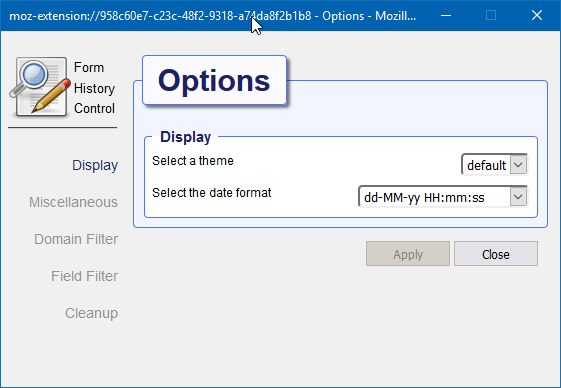
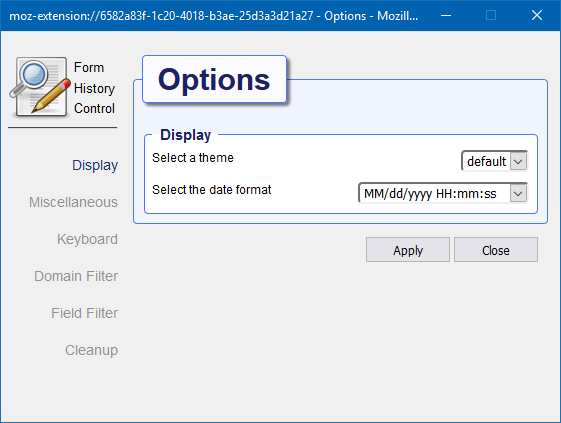
Update for FHC 2.3.0.0 release

diff --git a/docs/Manual/manual/index.html b/docs/Manual/manual/index.html
@@ -302,6 +302,13 @@
 </li>
         
           <li class="md-nav__item">
+  <a href="#keyboard" title="Keyboard" class="md-nav__link">
+    Keyboard
+  </a>
+  
+</li>
+        
+          <li class="md-nav__item">
   <a href="#domain-filter" title="Domain Filter" class="md-nav__link">
     Domain Filter
   </a>
@@ -595,6 +602,13 @@
 </li>
         
           <li class="md-nav__item">
+  <a href="#keyboard" title="Keyboard" class="md-nav__link">
+    Keyboard
+  </a>
+  
+</li>
+        
+          <li class="md-nav__item">
   <a href="#domain-filter" title="Domain Filter" class="md-nav__link">
     Domain Filter
   </a>
@@ -829,6 +843,18 @@ the formhistory exclusively maintained by this add-on.</p>
 Use these settings to control for multiline editor fields whether a new form history entry should de added or the last
 entry should be updated.</p>
 <p><img alt="The Preferences" src="../images/PreferencesMiscellaneous.png" title="Preferences Miscellaneous" /></p>
+<h3 id="keyboard">Keyboard<a class="headerlink" href="#keyboard" title="Permanent link">&para;</a></h3>
+<p>Shortcut keys can be assigned to a variety of actions (Google Chrome allows at most 4). You can for example assign a
+shortcut key combination to open the Form History Dialog or directly perform an action like filling all
+fields with the most recent entries.</p>
+<p><img alt="The Preferences" src="../images/PreferencesKeyboard.png" title="Preferences Keyboard" /></p>
+<p>In order to assign a new key combination to an action click the Modify button (yet only available on Firefox).</p>
+<p><img alt="The Preferences" src="../images/PreferencesKeyboardModify.png" title="Preferences Keyboard Modify" /> </p>
+<p>The first modifier key and the last key is mandatory, the second modifier key is optional. From Firefox versions ≥ 63
+all keys become available for the second modifier, earlier version only support the Shift key.</p>
+<p><em>It is possible that a key combination is already assigned to another add-on or is in use by the browser itself.
+This extension can not detect this situation and it is very likely that another action will be executed instead.
+If that is the case simply choose another key combination.</em></p>
 <h3 id="domain-filter">Domain Filter<a class="headerlink" href="#domain-filter" title="Permanent link">&para;</a></h3>
 <p>If <em>Allow All</em> is enabled (the default), the Form History Control add-on will remember form history for all pages.</p>
 <p>To prevent storing history for specific pages you can either <strong>blacklist</strong> the domains for sites you

diff --git a/docs/ReleaseNotes/fhc-releasenotes/index.html b/docs/ReleaseNotes/fhc-releasenotes/index.html
@@ -301,6 +301,13 @@
     <ul class="md-nav__list" data-md-scrollfix>
       
         <li class="md-nav__item">
+  <a href="#2300-september-21-2018" title="2.3.0.0 September 21, 2018" class="md-nav__link">
+    2.3.0.0 September 21, 2018
+  </a>
+  
+</li>
+      
+        <li class="md-nav__item">
   <a href="#2203-september-2-2018" title="2.2.0.3 September 2, 2018" class="md-nav__link">
     2.2.0.3 September 2, 2018
   </a>
@@ -470,6 +477,13 @@
     <ul class="md-nav__list" data-md-scrollfix>
       
         <li class="md-nav__item">
+  <a href="#2300-september-21-2018" title="2.3.0.0 September 21, 2018" class="md-nav__link">
+    2.3.0.0 September 21, 2018
+  </a>
+  
+</li>
+      
+        <li class="md-nav__item">
   <a href="#2203-september-2-2018" title="2.2.0.3 September 2, 2018" class="md-nav__link">
     2.2.0.3 September 2, 2018
   </a>
@@ -613,6 +627,12 @@
                 
                 
                 <h1 id="form-history-control-release-notes">Form History Control - Release Notes<a class="headerlink" href="#form-history-control-release-notes" title="Permanent link">&para;</a></h1>
+<h3 id="2300-september-21-2018">2.3.0.0 September 21, 2018<a class="headerlink" href="#2300-september-21-2018" title="Permanent link">&para;</a></h3>
+<ul>
+<li>Shortcut keys added for a variety of actions, configurable via preferences</li>
+<li>Cleanup added to the drop down menu of the main dialog</li>
+<li>Some minor layout improvements</li>
+</ul>
 <h3 id="2203-september-2-2018">2.2.0.3 September 2, 2018<a class="headerlink" href="#2203-september-2-2018" title="Permanent link">&para;</a></h3>
 <ul>
 <li>Chrome compatible, now FHC is also available in the Chrome Web store</li>

diff --git a/docs/Manual/FAQ/index.html b/docs/Manual/FAQ/index.html
@@ -263,13 +263,6 @@
   
 </li>
       
-        <li class="md-nav__item">
-  <a href="#bla-di-bla" title="Bla di bla" class="md-nav__link">
-    Bla di bla
-  </a>
-  
-</li>
-      
       
       
       
@@ -380,13 +373,6 @@
   
 </li>
       
-        <li class="md-nav__item">
-  <a href="#bla-di-bla" title="Bla di bla" class="md-nav__link">
-    Bla di bla
-  </a>
-  
-</li>
-      
       
       
       
@@ -424,15 +410,6 @@ formhistory data storage.</p>
    is capable of exporting the formhistory data and make it available for the new version,
    go to the <a href="../../FHCExport/">FHCExport page</a> for more information.</li>
 </ol>
-<h2 id="bla-di-bla">Bla di bla<a class="headerlink" href="#bla-di-bla" title="Permanent link">&para;</a></h2>
-<details class="bug"><summary>Phasellus posuere in sem ut cursus</summary><p>Lorem ipsum dolor sit amet, consectetur adipiscing elit. Nulla et euismod
-nulla. Curabitur feugiat, tortor non consequat finibus, justo purus auctor
-massa, nec semper lorem quam in massa.</p></details><div class="admonition note">
-<p class="admonition-title">Phasellus posuere in sem ut cursus</p>
-<p>Lorem ipsum dolor sit amet, consectetur adipiscing elit. Nulla et euismod
-nulla. Curabitur feugiat, tortor non consequat finibus, justo purus auctor
-massa, nec semper lorem quam in massa.</p>
-</div>
                 
                   
                 

diff --git a/docsource/Manual/manual.md b/docsource/Manual/manual.md
@@ -133,6 +133,24 @@ entry should be updated.
 
 ![The Preferences](./images/PreferencesMiscellaneous.png "Preferences Miscellaneous")
 
+### Keyboard
+Shortcut keys can be assigned to a variety of actions (Google Chrome allows at most 4). You can for example assign a
+shortcut key combination to open the Form History Dialog or directly perform an action like filling all
+fields with the most recent entries.
+
+![The Preferences](./images/PreferencesKeyboard.png "Preferences Keyboard")
+
+In order to assign a new key combination to an action click the Modify button (yet only available on Firefox).
+
+![The Preferences](./images/PreferencesKeyboardModify.png "Preferences Keyboard Modify") 
+
+The first modifier key and the last key is mandatory, the second modifier key is optional. From Firefox versions ≥ 63
+all keys become available for the second modifier, earlier version only support the Shift key.
+
+_It is possible that a key combination is already assigned to another add-on or is in use by the browser itself.
+This extension can not detect this situation and it is very likely that another action will be executed instead.
+If that is the case simply choose another key combination._
+
 ### Domain Filter
 If _Allow All_ is enabled (the default), the Form History Control add-on will remember form history for all pages.
 

diff --git a/docsource/ReleaseNotes/fhc-releasenotes.md b/docsource/ReleaseNotes/fhc-releasenotes.md
@@ -1,5 +1,10 @@
 # Form History Control - Release Notes
 
+### 2.3.0.0 September 21, 2018
+- Shortcut keys added for a variety of actions, configurable via preferences
+- Cleanup added to the drop down menu of the main dialog
+- Some minor layout improvements
+
 ### 2.2.0.3 September 2, 2018
 - Chrome compatible, now FHC is also available in the Chrome Web store
 - Replaced the svg icons in the chrome manifest with png icons
